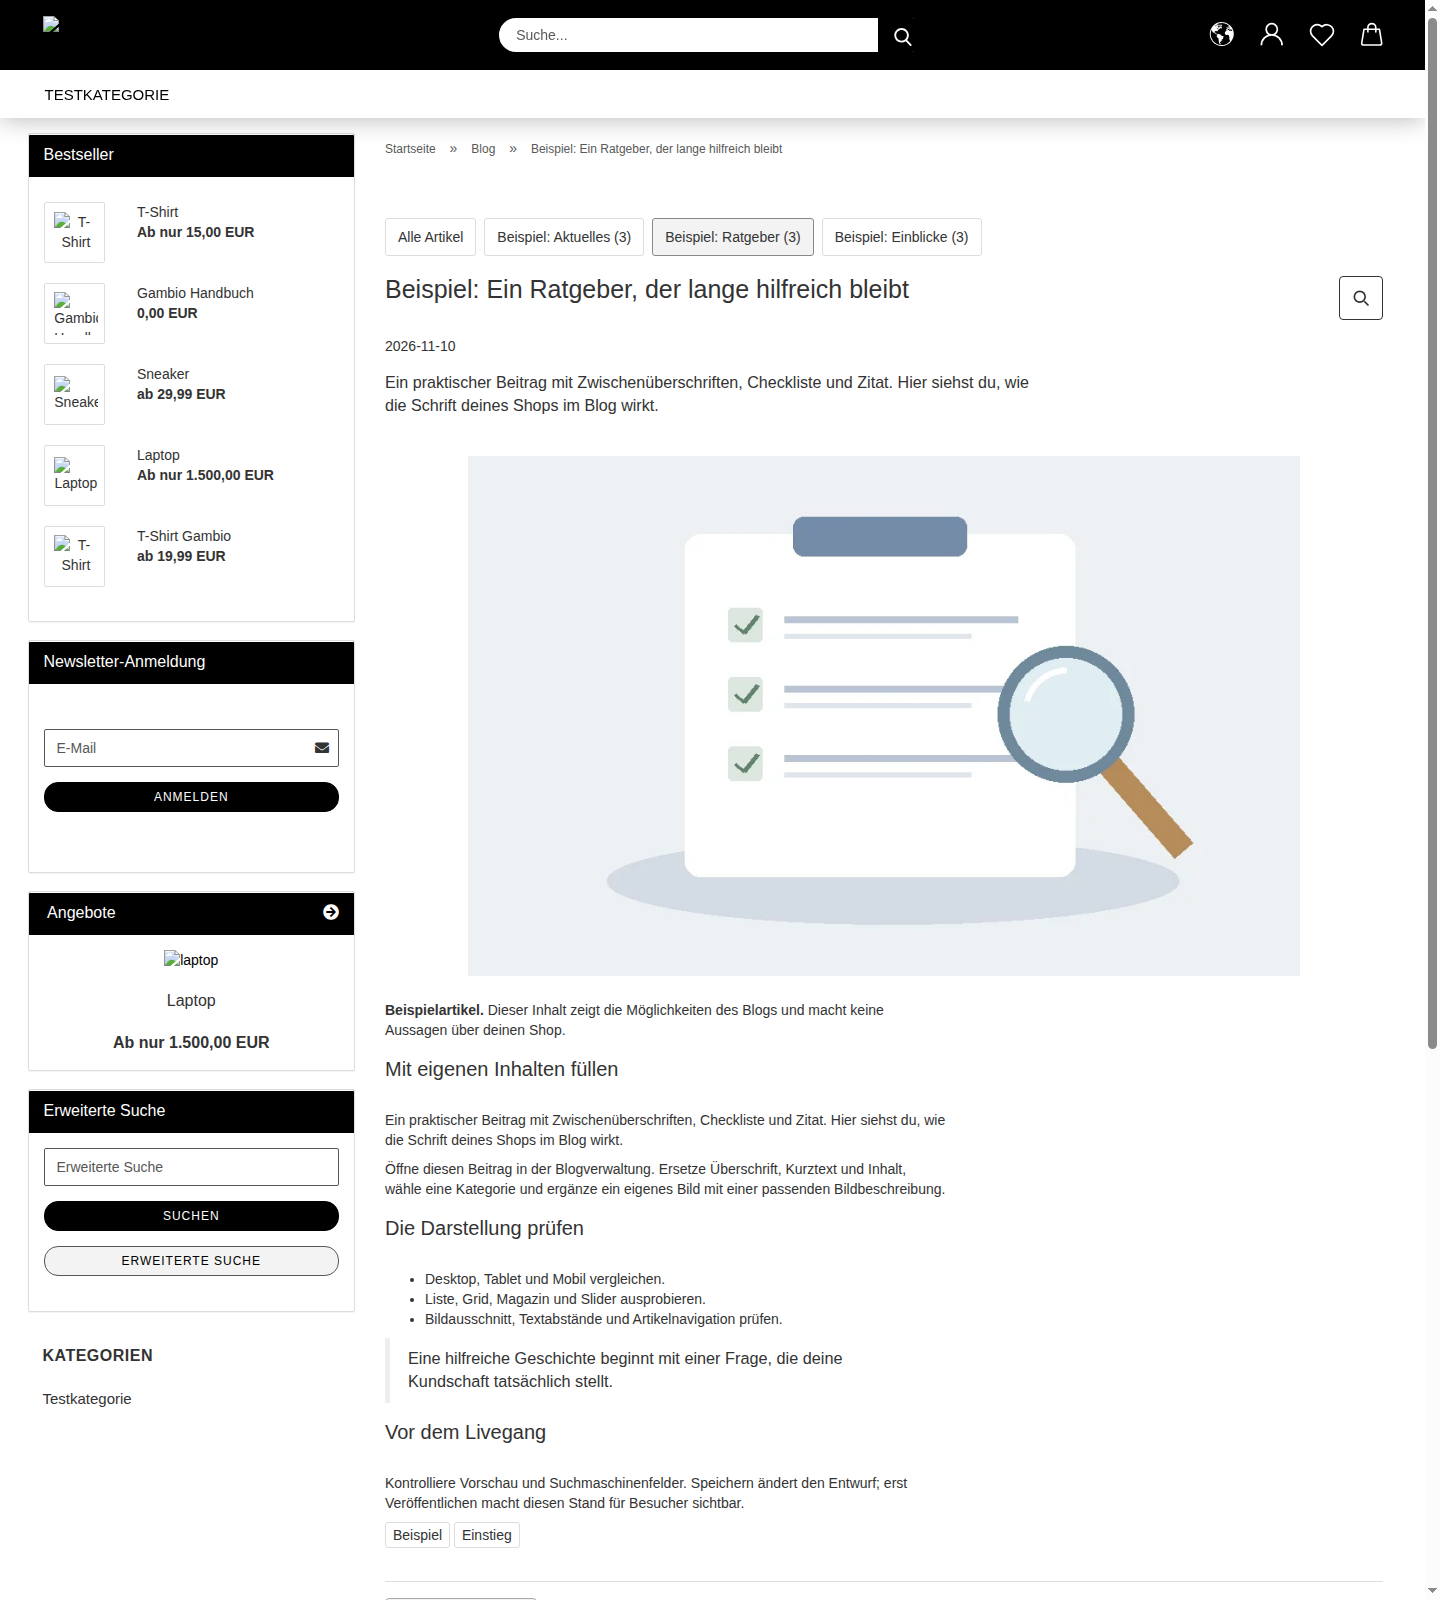
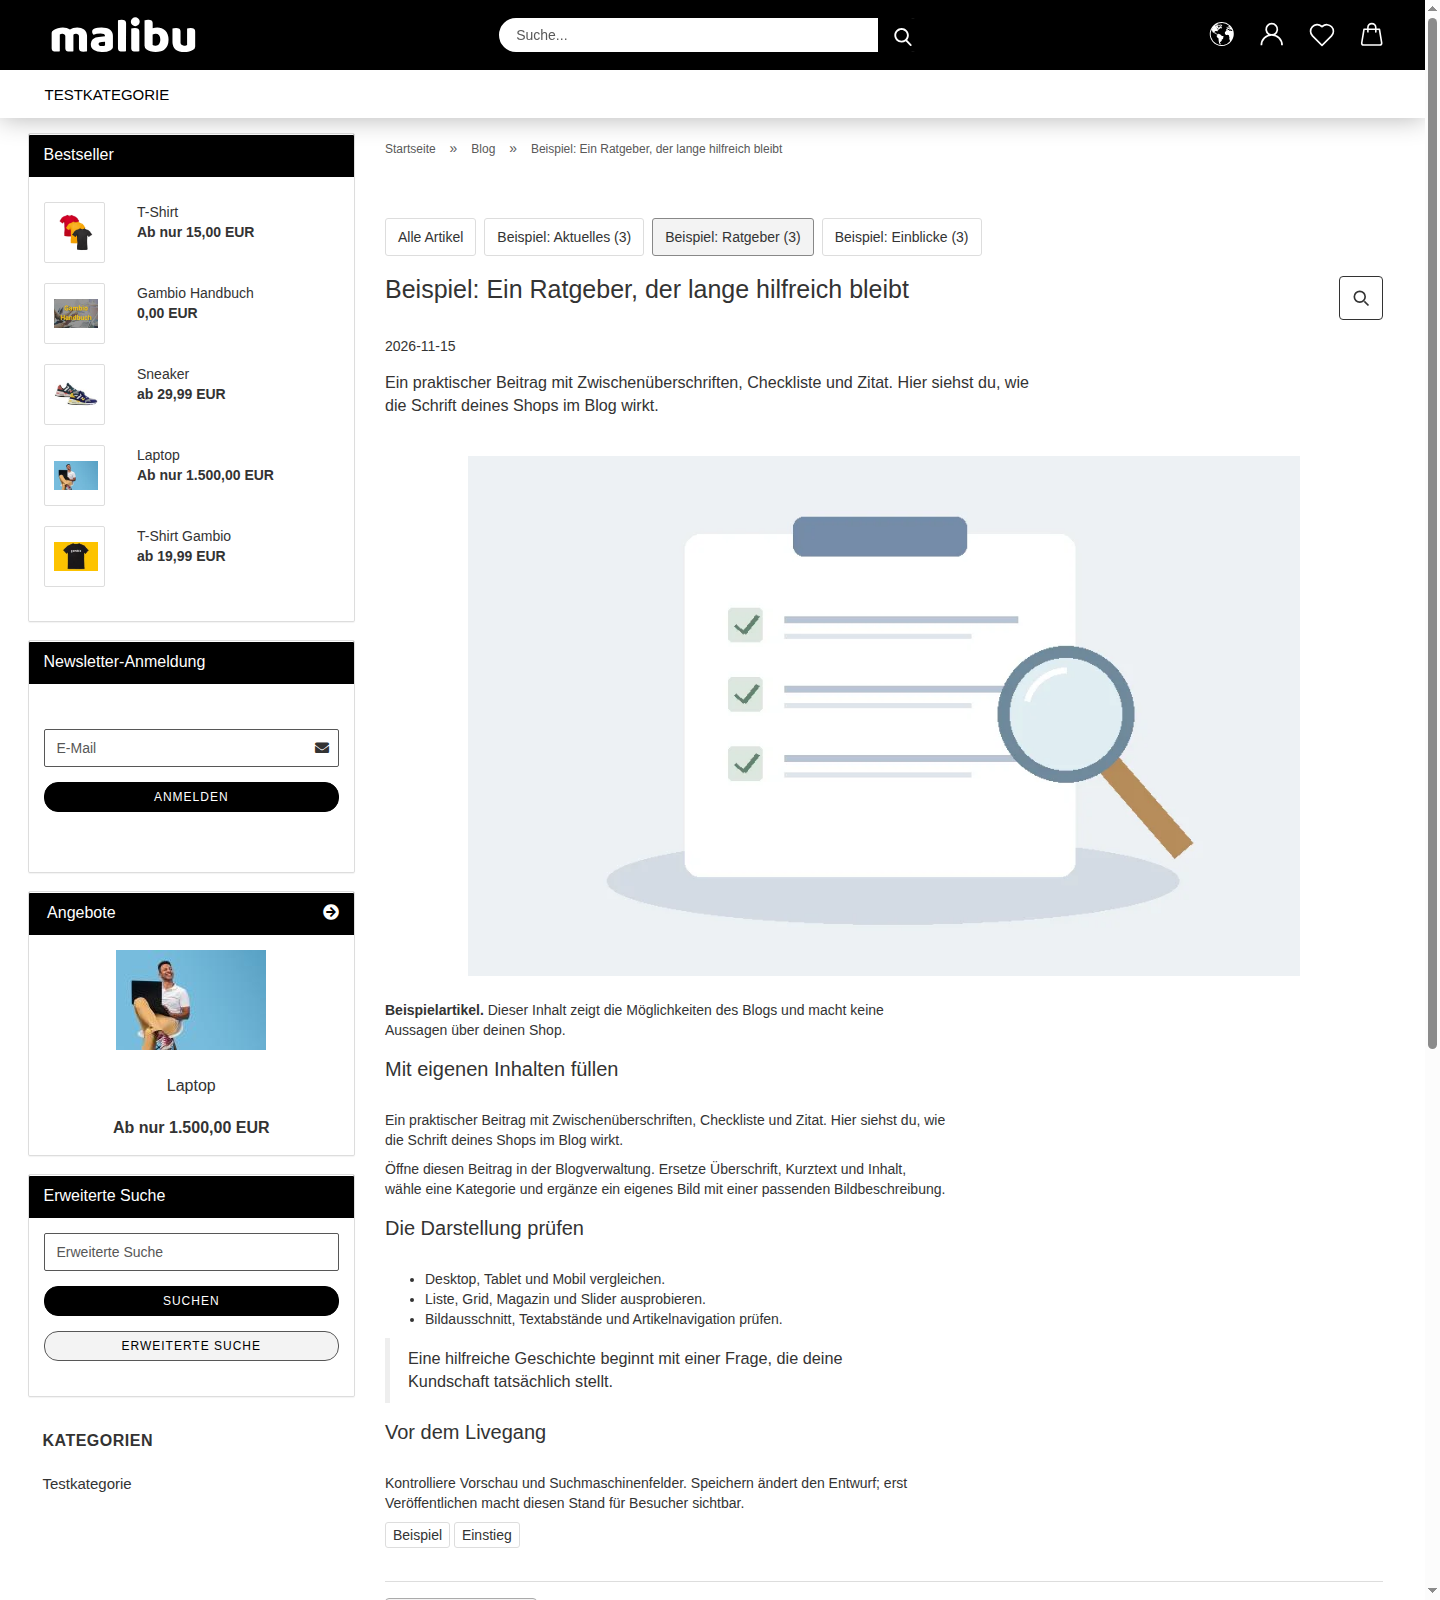
docs: replace screenshots with complete media and verified update status

diff --git a/docs/BILDERRUNDGANG.md b/docs/BILDERRUNDGANG.md
@@ -2,7 +2,7 @@
 
 Vierzehn Funktionsansichten zeigen den Weg vom Einstieg über das Schreiben und Gestalten bis zum öffentlichen Blog. Klicke auf ein Bild, um die Bedienelemente in Originalgröße zu lesen.
 
-**Aufnahmen vom 11.11.2026, Blog 0.48.16 / KI 0.12.7:** Alle Ansichten wurden in einer frischen, temporären Gambio-26.11.0-Installation mit Malibu neu aufgenommen. Die Artikelverwaltung ist auf die optionalen Beispielartikel gefiltert; öffentliche Ansichten zeigen Beispiel- und Testinhalte. Die Testumgebung wurde vorher mit den optionalen Beispielartikeln vorbereitet; während der Aufnahmen wurden keine Artikel oder Einstellungen gespeichert und keine KI-Anfragen ausgelöst. Die Detailbilder zeigen gezielte Ausschnitte. Das Erscheinungsbild hängt vom Theme und den Einstellungen ab. [Teststand](KOMPATIBILITAET.md).
+**Aufnahmen vom 16.11.2026, Blog 0.48.16 / KI 0.12.7:** Alle Ansichten wurden in einer frischen, temporären Gambio-26.11.0-Installation mit Malibu neu aufgenommen. Die Artikelverwaltung ist auf die optionalen Beispielartikel gefiltert; öffentliche Ansichten zeigen Beispiel- und Testinhalte. Die Testumgebung wurde vorher mit den optionalen Beispielartikeln vorbereitet; während der Aufnahmen wurden keine Artikel oder Einstellungen gespeichert und keine KI-Anfragen ausgelöst. Die Detailbilder zeigen gezielte Ausschnitte. Das Erscheinungsbild hängt vom Theme und den Einstellungen ab. [Teststand](KOMPATIBILITAET.md).
 
 [Zur Projektübersicht](../README.md) · [Zur Installation](INSTALLATION.md)
 
@@ -15,13 +15,13 @@ Vierzehn Funktionsansichten zeigen den Weg vom Einstieg über das Schreiben und 
 | [5. Kategorien verwalten](#ansicht-5) | Kategorieformular mit Namen, URL-Kürzel und SEO-Feldern |
 | [6. Freigabe, Termine und Versionen](#ansicht-6) | Freigabe eines privaten Entwurfs, Terminplanung, Aufgabenhinweis und gespeicherte Version |
 | [7. Darstellung mit Vorschau](#ansicht-7) | Grafischer Editor mit Grid-Vorschau und Layoutoptionen für Desktop |
-| [8. Öffentlicher Blog auf Desktop](#ansicht-8) | Öffentliches Bloggrid im vollständigen Malibu-Shoplayout |
+| [8. Öffentlicher Blog auf Desktop](#ansicht-8) | Öffentliche Blogübersicht im vollständigen Malibu-Shoplayout |
 | [9. Öffentliche Artikelseite](#ansicht-9) | Öffentlicher Ratgeber mit Titelbild, gegliedertem Text und Shopumgebung |
-| [10. Öffentlicher Blog auf Mobilgeräten](#ansicht-10) | Mobile Blogansicht mit Kategorieauswahl und Artikelslider |
+| [10. Öffentlicher Blog auf Mobilgeräten](#ansicht-10) | Mobile Blogansicht mit Kategorieauswahl und Seitennavigation |
 | [11. Eigenes CSS](#ansicht-11) | Vorschau, visuelle Regler und Code pro Elementtyp |
 | [12. Hilfetexte](#ansicht-12) | Hervorgehobene Hinweise in der Verwaltung |
 | [13. Modul-Center](#ansicht-13) | Einheitlicher Produktname und tatsächlicher Modulstand |
-| [14. Update / Aktualisieren](#ansicht-14) | Versionsstatus, Prüfzeit und abgeschlossener Updateablauf |
+| [14. Update / Aktualisieren](#ansicht-14) | Erfolgreicher Versionsabruf mit Prüfzeit |
 
 <a id="ansicht-1"></a>
 
@@ -75,7 +75,7 @@ Der Ausschnitt zeigt die Freigabe eines gespeicherten Entwurfs, die Terminplanun
 
 ## 7. Darstellung mit Vorschau
 
-Im grafischen Editor wählst du Geräteansicht und Bereich, zum Beispiel Layout, Karte, Bild oder Text. Hier zeigt der Ausschnitt eine **Grid-Vorschau** mit drei Spalten sowie die Gesamtbreite und maximale Breite des Blogs. Die neuen Bereiche **Suche** und **Artikel** sind direkt auswählbar. Die Vorschau wurde für die Aufnahme geöffnet; gespeicherte Shop-Einstellungen wurden dabei nicht verändert.
+Im grafischen Editor wählst du Geräteansicht und Bereich, zum Beispiel Layout, Karte, Bild oder Text. Hier zeigt der Ausschnitt eine **Grid-Vorschau** mit zwei Spalten sowie die Gesamtbreite und maximale Breite des Blogs. Die neuen Bereiche **Suche** und **Artikel** sind direkt auswählbar. Die Vorschau wurde für die Aufnahme geöffnet; gespeicherte Shop-Einstellungen wurden dabei nicht verändert.
 
 [![Grafischer Editor mit Grid-Vorschau und Layoutoptionen für Desktop](images/darstellung.png)](images/darstellung.png)
 
@@ -83,9 +83,9 @@ Im grafischen Editor wählst du Geräteansicht und Bereich, zum Beispiel Layout,
 
 ## 8. Öffentlicher Blog auf Desktop
 
-Die gespeicherte Desktopansicht verwendet ein Grid mit drei Spalten. Shopkopf und Seitenleiste zeigen die Einbindung in Malibu; innerhalb des Blogs führen Kategorien und Seitennavigation durch die Artikel. Die Aufnahme erfolgt als Gast.
+Die gespeicherte Desktopansicht zeigt Artikel als Liste. Shopkopf und Seitenleiste zeigen die Einbindung in Malibu; innerhalb des Blogs führen Kategorien und Seitennavigation durch die Artikel. Die Aufnahme erfolgt als Gast.
 
-[![Öffentliches Bloggrid im vollständigen Malibu-Shoplayout](images/blog-desktop.png)](images/blog-desktop.png)
+[![Öffentliche Blogübersicht im vollständigen Malibu-Shoplayout](images/blog-desktop.png)](images/blog-desktop.png)
 
 <a id="ansicht-9"></a>
 
@@ -99,9 +99,9 @@ Der Ratgeber zeigt Titel, Kategorie, Datum, Kurzbeschreibung und Titelbild sowie
 
 ## 10. Öffentlicher Blog auf Mobilgeräten
 
-Bei 390 Pixeln Breite verwendet dieser Beispielshop einen Slider mit Pfeilen, Punkten und Artikelzähler. Die Kategorien sind über eine kompakte Auswahl erreichbar. Desktop und Mobil können unterschiedliche Darstellungen verwenden.
+Bei 390 Pixeln Breite zeigt dieser Beispielshop die Artikel untereinander mit Seitennavigation. Die Kategorien sind über eine kompakte Auswahl erreichbar. Desktop und Mobil können unterschiedliche Darstellungen verwenden.
 
-<a href="images/blog-mobil.png"><img src="images/blog-mobil.png" alt="Mobile Blogansicht mit Kategorieauswahl und Artikelslider" width="390"></a>
+<a href="images/blog-mobil.png"><img src="images/blog-mobil.png" alt="Mobile Blogansicht mit Kategorieauswahl und Seitennavigation" width="390"></a>
 
 [Zur Projektübersicht](../README.md) · [Installation](INSTALLATION.md)
 
@@ -135,8 +135,8 @@ Hinweisfelder mit grünem Rand heben die Erläuterungen zur Darstellung hervor. 
 
 Die Aufnahme mit Blog **0.48.16** zeigt die neue Update-Seite nach frischer Installation. Automatisch gefundene Updates werden hier direkt mit Details und Startknopf angeboten. Für die Aufnahme blieb die automatische Prüfung ausgeschaltet; es wurde kein Update gestartet.
 
-[![Aktueller Versionsstatus und abgeschlossener Updateablauf](images/aktualisieren.png)](images/aktualisieren.png)
+[![Erfolgreich abgefragter Versionsstatus mit Prüfzeit](images/aktualisieren.png)](images/aktualisieren.png)
 
 Alle 14 Aufnahmen zeigen den veröffentlichten Modulstand 0.48.16. Aufnahmedatum, Versionen und Bildprüfsummen stehen in [screenshots.json](screenshots.json).
 
-Die Update-Aufnahme zeigt den Fehlerhinweis für GitHub, weil die temporäre Prüfumgebung den Abruf nicht zuließ. Dieser Hinweis ist kein fehlgeschlagenes Modulupdate; eine Installation wurde nicht gestartet.
+Die Update-Aufnahme zeigt eine tatsächlich erfolgreiche GitHub-Versionsabfrage einschließlich Testversionen. Es wurde kein Update installiert. Alle sichtbaren Bilder wurden vor der Aufnahme auf erfolgreiches Laden geprüft; die Aufnahmen wurden anschließend einzeln angesehen.

diff --git a/README.md b/README.md
@@ -84,7 +84,7 @@ Spätere Updates starten direkt unter **Update / Aktualisieren**. Die vollständ
 
 Die grafische Darstellung und **Alle Einstellungen** bearbeiten dieselben Werte. Unter **Eigenes CSS** am ausgewählten Elementtyp bearbeiten visuelle Regler, Farbauswahl und CSS-Code dieselben Regeln. Geräteansicht, Hover und Tastaturfokus lassen sich getrennt gestalten; erst **Darstellung speichern** übernimmt die Änderungen. Du kannst etwa auf Desktop ein Grid und auf Mobil einen Slider verwenden, Bildplatzierung und Textabstände einstellen oder Farben und Schriftgrößen je Gerät anpassen.
 
-**Vorschau und Einstellungen nebeneinander:** Hier ist im grafischen Editor eine **ungespeicherte Grid-Vorschau** geöffnet. Gerätewahl, Spaltenzahl und Artikelzahl sind direkt neben der Vorschau sichtbar. Die öffentliche Desktopaufnahme weiter oben zeigt die gespeicherte Gridansicht.
+**Vorschau und Einstellungen nebeneinander:** Hier ist im grafischen Editor eine **ungespeicherte Grid-Vorschau** geöffnet. Gerätewahl, Spaltenzahl und Artikelzahl sind direkt neben der Vorschau sichtbar. Die öffentliche Desktopaufnahme weiter oben zeigt die gespeicherte Listenansicht.
 
 [![Grafischer Darstellungseditor mit Grid-Vorschau, Gerätewahl und Layoutoptionen](docs/images/darstellung.png)](docs/images/darstellung.png)
 
@@ -92,7 +92,7 @@ Die grafische Darstellung und **Alle Einstellungen** bearbeiten dieselben Werte.
 
 **Blogadressen bleiben steuerbar:** Beim Pfadwechsel entscheidest du, ob die bisherige Adresse weiterleiten soll. Gespeicherte Weiterleitungen kannst du unter **Blogadresse** ändern oder löschen. Hilfetexte sind im gemeinsamen c1zz-systems-Stil hervorgehoben. Entfernen, Löschen und Zurücksetzen eigener Werte sind rot markiert.
 
-Alle 14 Funktionsansichten wurden am **11.11.2026 mit Blog 0.48.16 und KI 0.12.7** im lokalen GX26-Testshop mit Malibu neu aufgenommen. Sie zeigen Beispiel- und Testinhalte sowie die aktuelle Navigation, Speicherleisten und Updateverwaltung. Der [Bilderrundgang](docs/BILDERRUNDGANG.md) zeigt auch den **mobile Blogübersicht**. Das Aussehen hängt von deinem Theme und deinen Einstellungen ab.
+Alle 14 Funktionsansichten wurden am **16.11.2026 mit Blog 0.48.16 und KI 0.12.7** im lokalen GX26-Testshop mit Malibu neu aufgenommen. Sie zeigen Beispiel- und Testinhalte sowie die aktuelle Navigation, Speicherleisten und Updateverwaltung. Der [Bilderrundgang](docs/BILDERRUNDGANG.md) zeigt auch die **mobile Blogübersicht**. Das Aussehen hängt von deinem Theme und deinen Einstellungen ab.
 
 ## Was ist tatsächlich geprüft?
 
